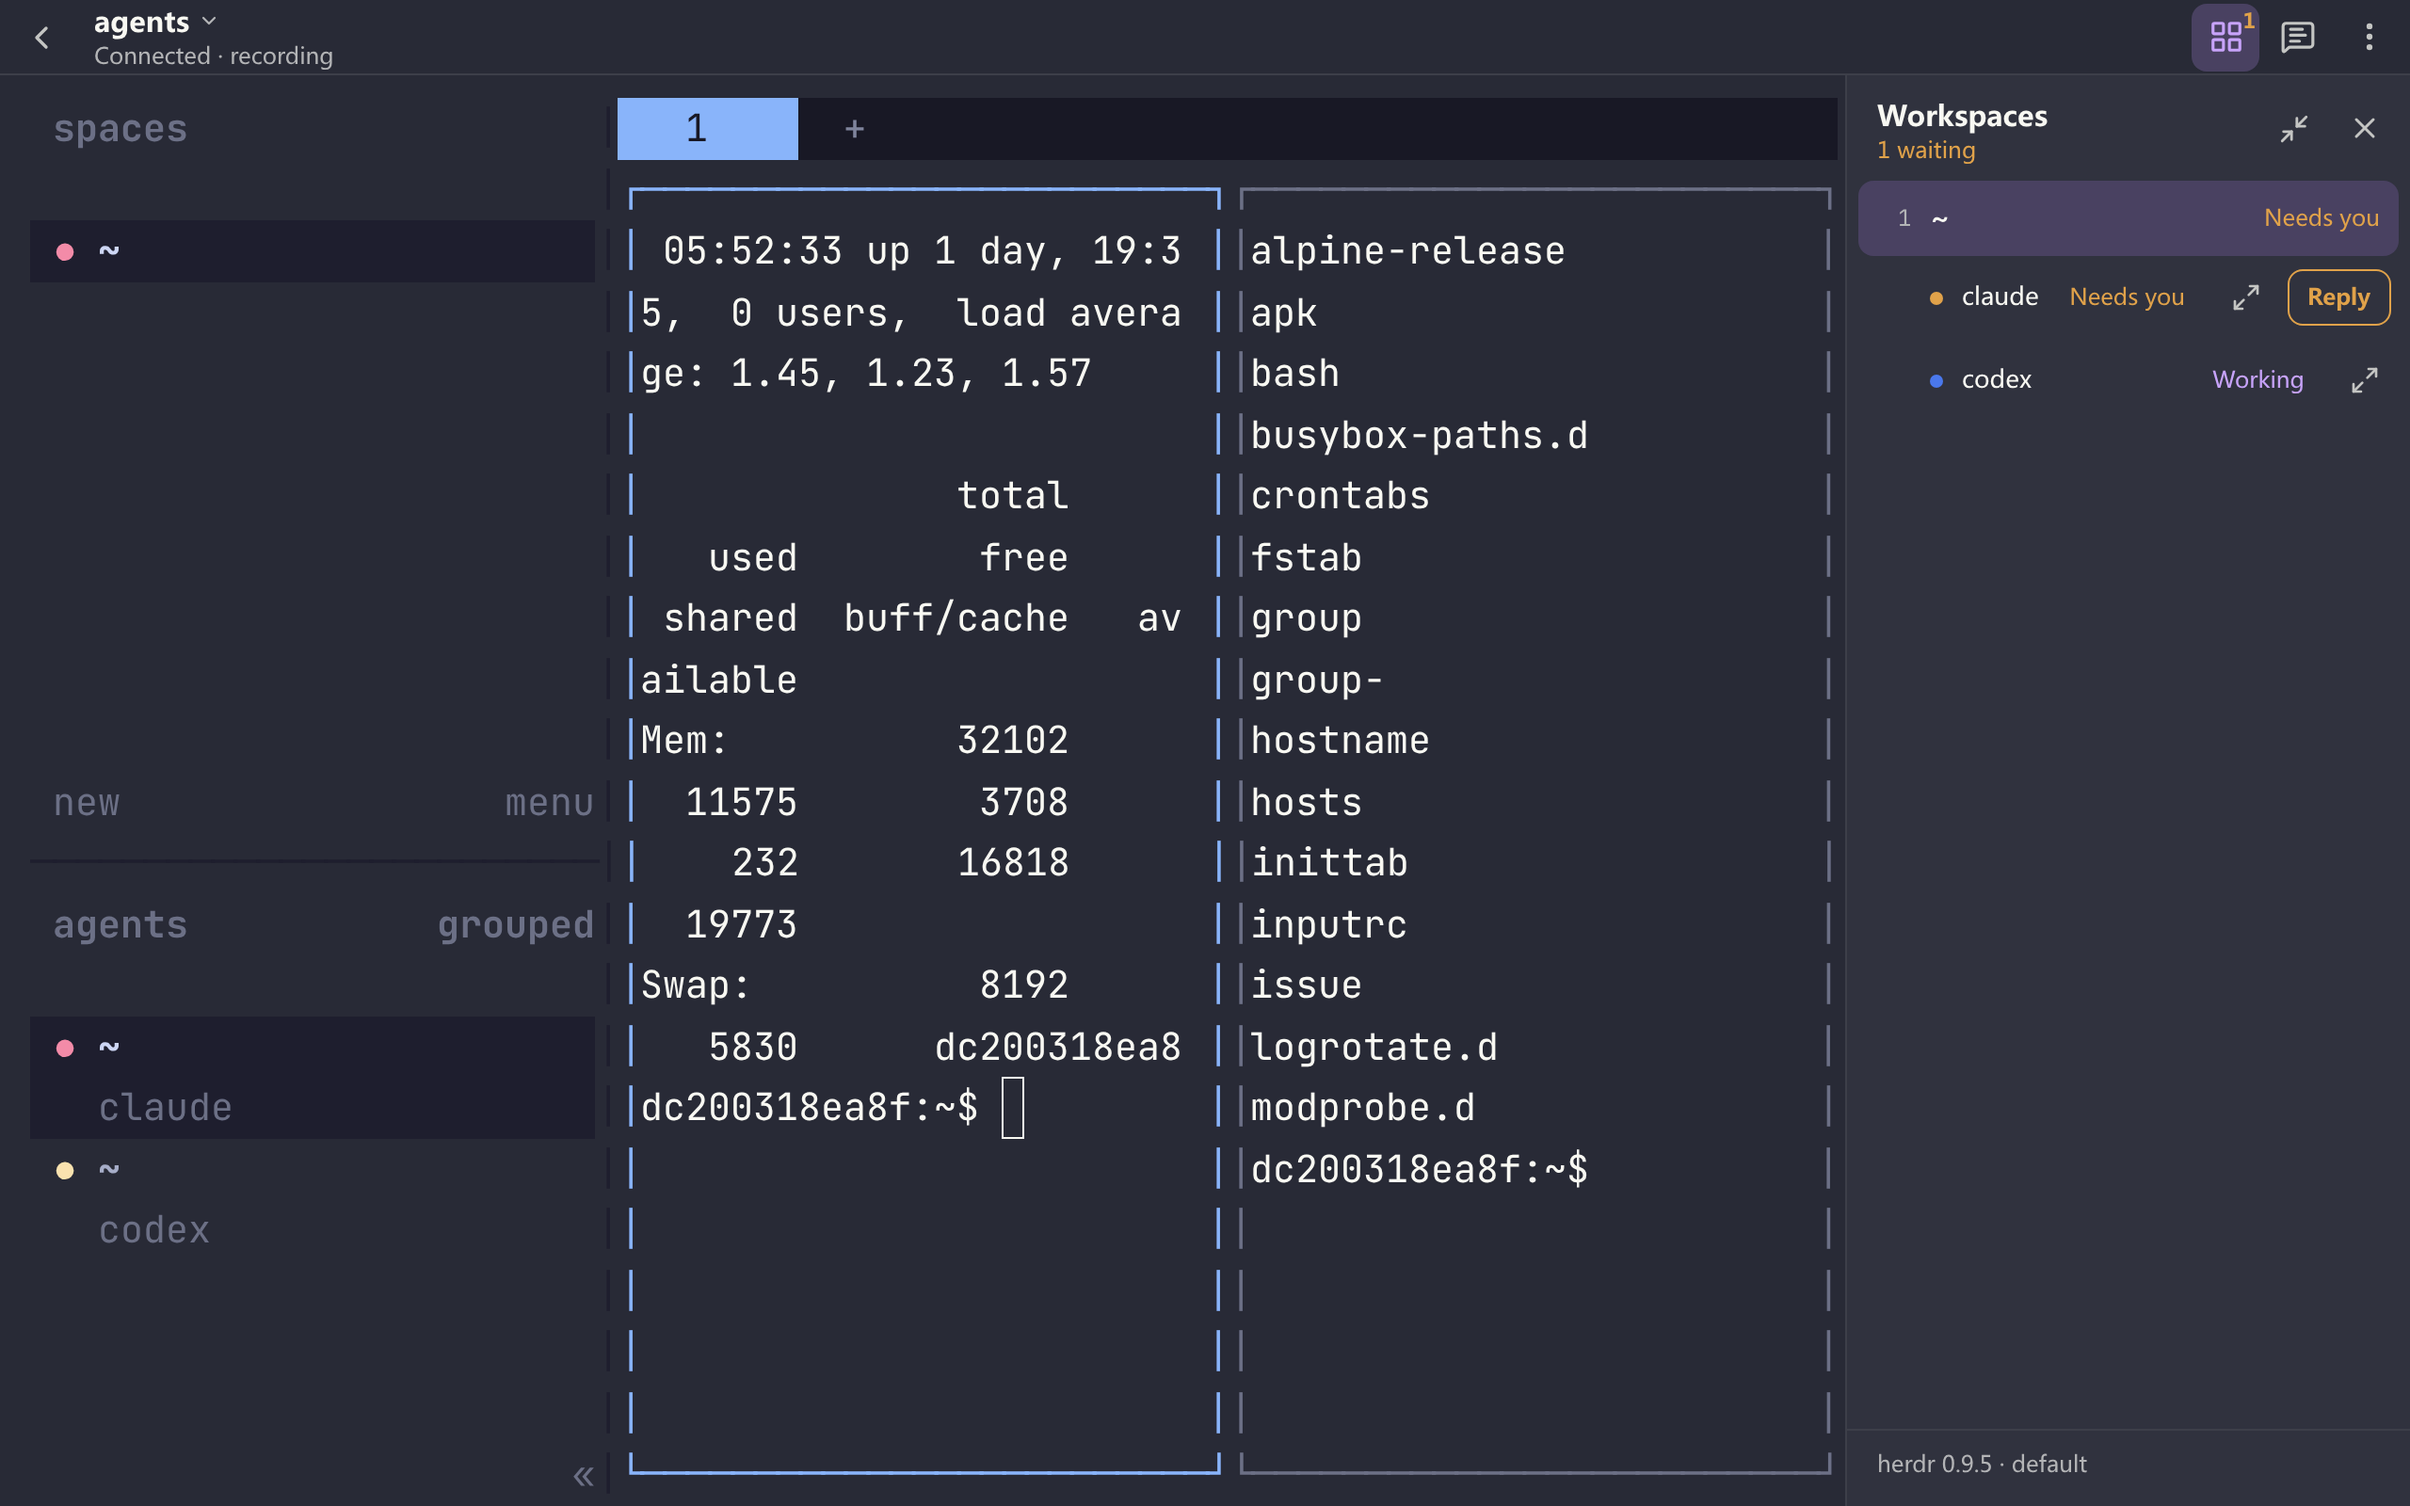
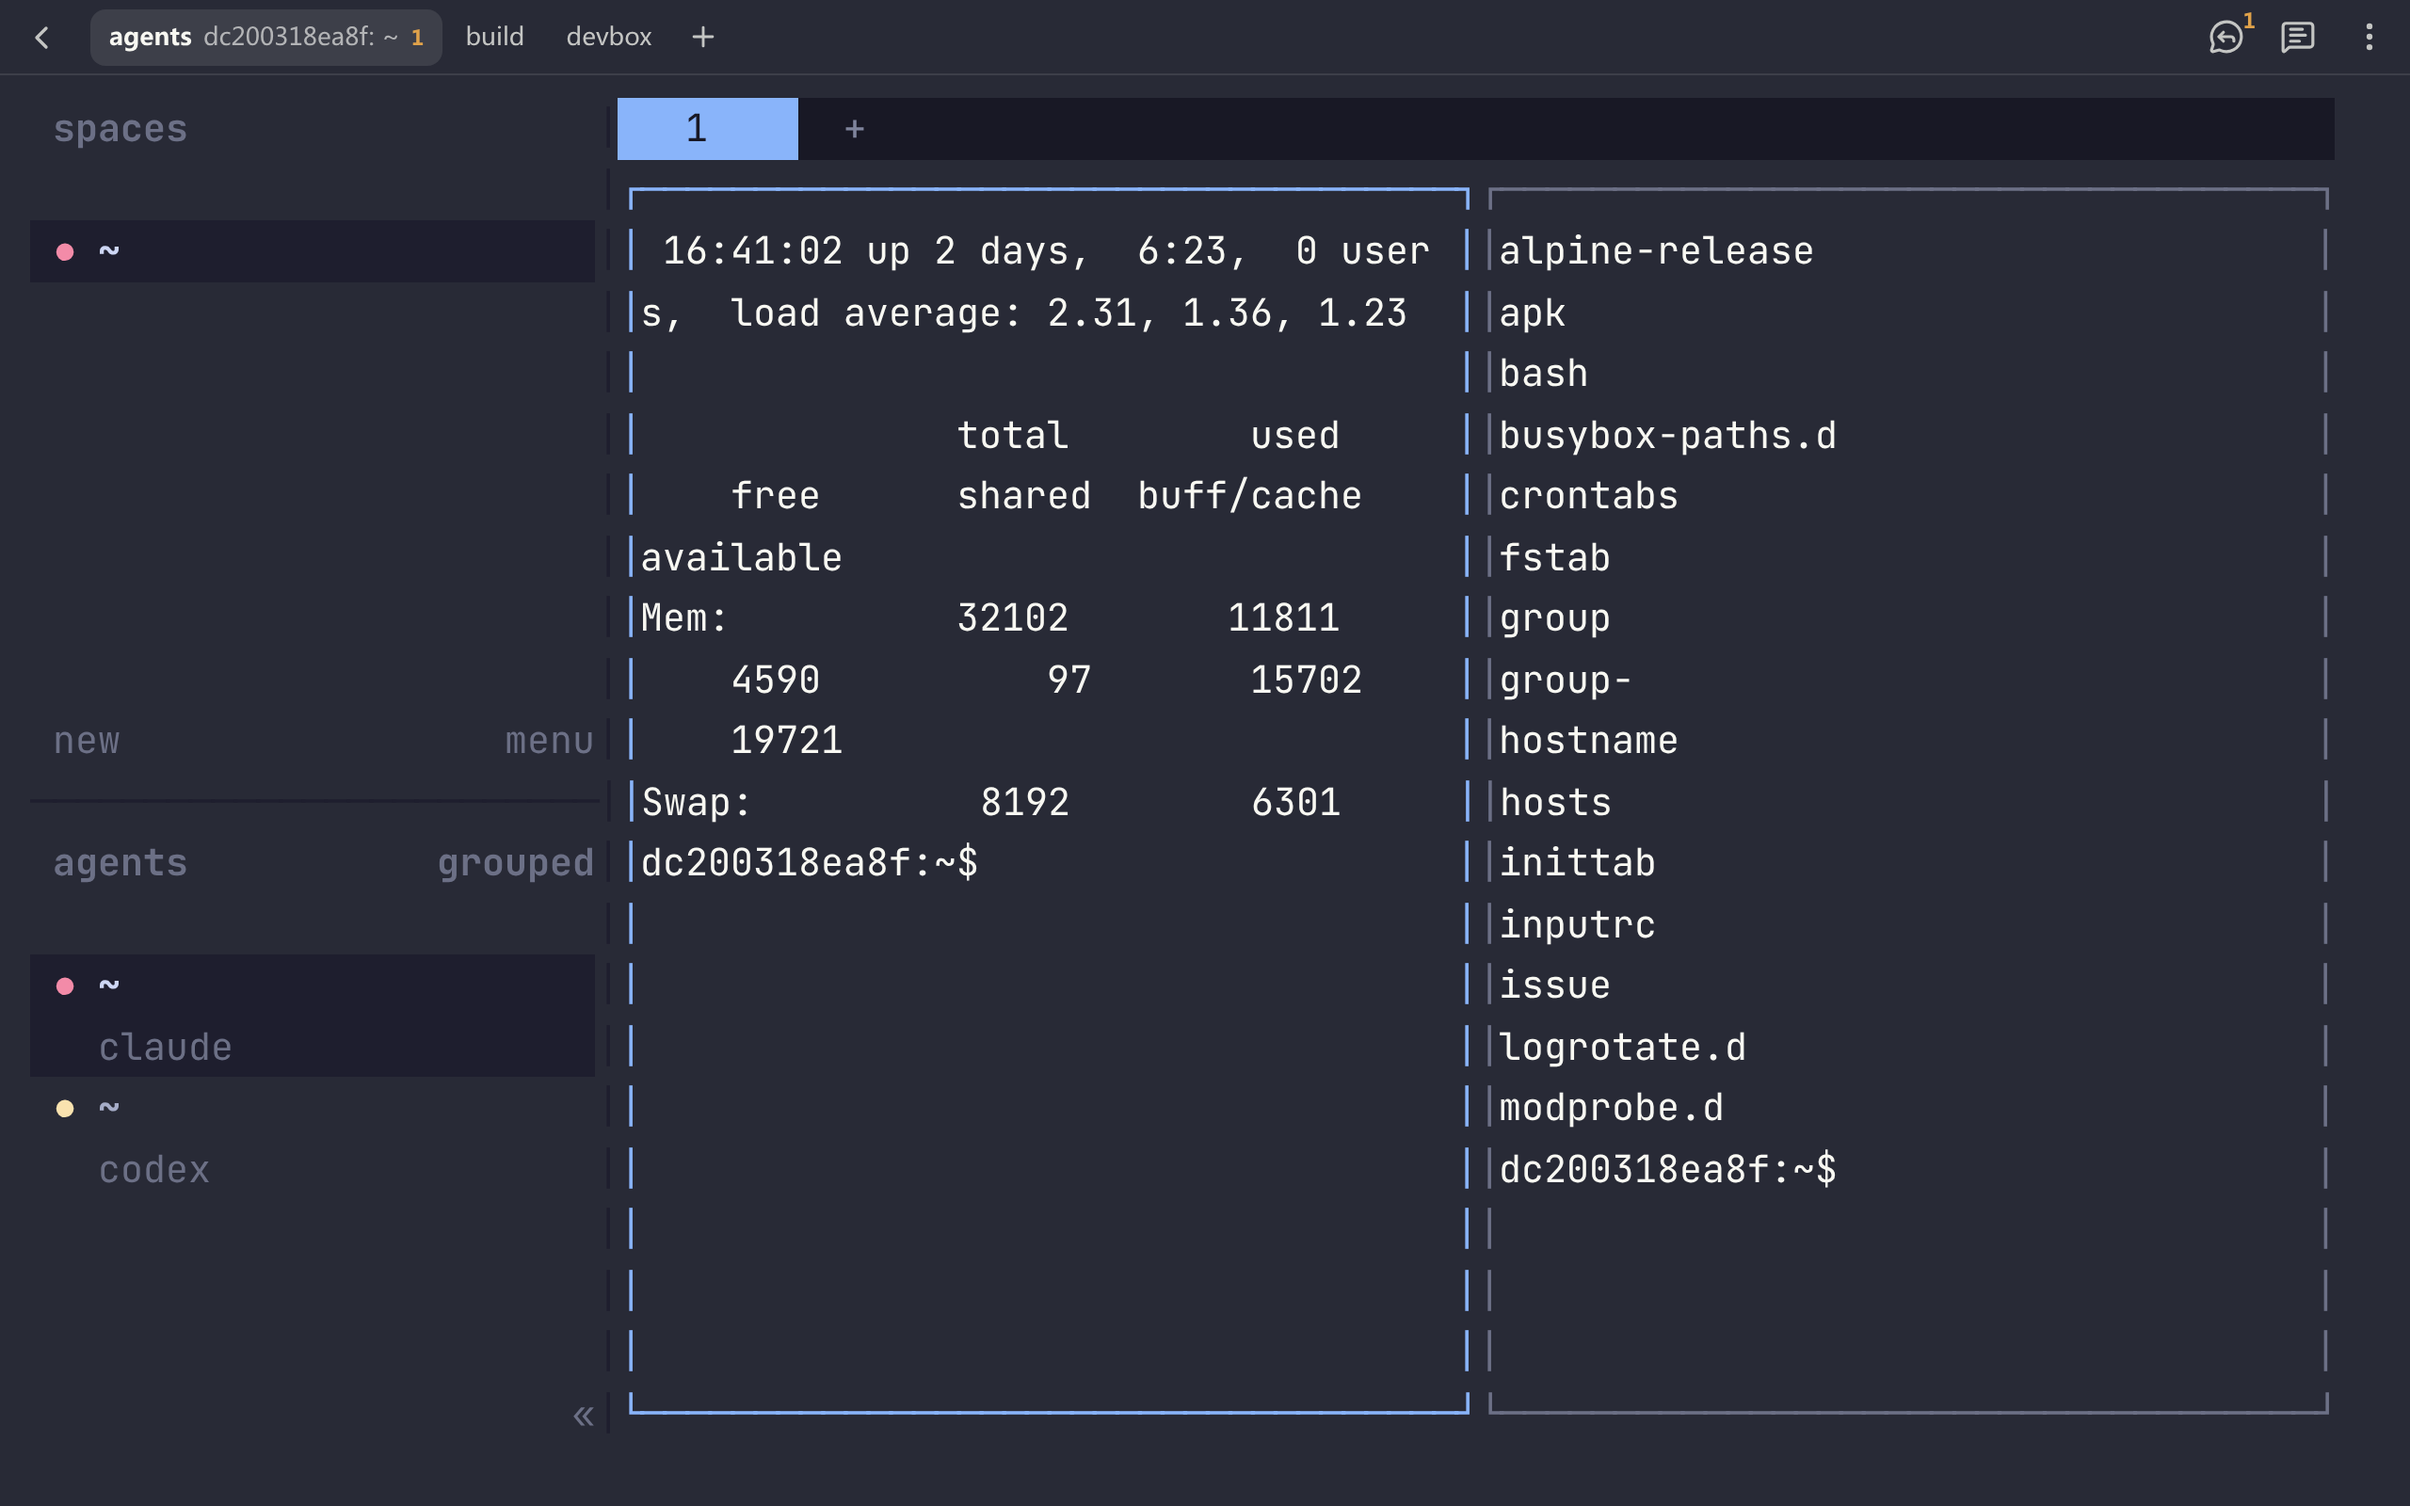
README screenshots: session tabs, the waiting button
The desktop screenshot showed the herdr panel, which is gone: it now shows
a tab per session with herdr in front and an agent waiting.

diff --git a/README.md b/README.md
@@ -13,7 +13,7 @@ keeps running and you pick it up where it was — on the same device or another.
   <img src="docs/screenshots/shortcuts-phone.png" width="250" alt="The shortcut panel over the key bar, on the Claude Code page">
 </p>
 <p align="center">
-  <img src="docs/screenshots/herdr-desktop.png" width="820" alt="herdr in a desktop browser, an agent waiting for an answer">
+  <img src="docs/screenshots/herdr-desktop.png" width="820" alt="A desktop browser with a tab per session; herdr in front, an agent waiting for an answer">
 </p>
 
 ## Features
